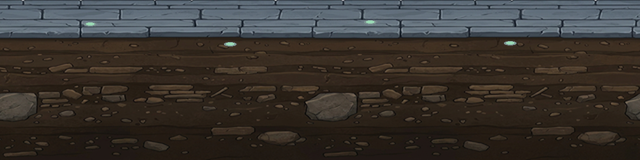
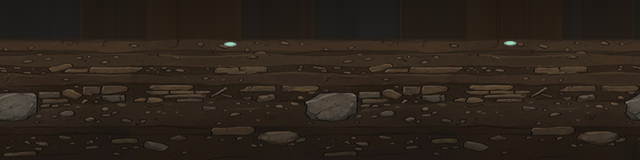
地面不再镂空：修好 10 张地面贴图顶部（beach 顶部 29 行透明、fortress 顶部 38 行是灰蓝天色），补成土并向上压暗出地平线暗边

Changed region(s): [[0.0, 0.0, 1.0, 0.25]]

diff --git a/tools/fix_ground_top.py b/tools/fix_ground_top.py
@@ -1,0 +1,103 @@
+# -*- coding: utf-8 -*-
+"""把地面贴图顶部「不是土」的那一条补成土。
+
+地面贴图是横截面风格：贴着地平线往下铺，屏幕上真正看得见的就是**贴图最上面那一小条**
+（岸带 26px 左右）。原来两张 beach 贴图最上面 30 行 alpha=0（镂空），fortress 贴图最上面
+40 行是偏蓝的「天/水」色 —— 铺上去就是一条空洞/一条灰蓝，看着像地面被掏了个口子。
+
+做法：找到第一条「实心土」的行 r0，把 r0 的颜色往上延伸成 r0 行，并向上轻微压暗，
+让地平线处有一条自然的暗边。1x / @2x 各自处理，尺寸不变（不破坏 @2x 严格 2 倍的关系）。
+
+用法： python tools/fix_ground_top.py [--check]
+"""
+import glob
+import io
+import os
+import sys
+
+from PIL import Image
+
+ROOT = os.path.dirname(os.path.dirname(os.path.abspath(__file__)))
+BG = os.path.join(ROOT, 'assets', 'bg')
+
+
+def luma(p):
+    return (p[0] * 299 + p[1] * 587 + p[2] * 114) // 1000
+
+
+def is_dirt_row(pts):
+    """一行是不是「土」：整体不透明、不是偏蓝的天/水色、亮度不过高。"""
+    a = sum(p[3] for p in pts) / len(pts)
+    if a < 250:
+        return False
+    r = sum(p[0] for p in pts) / len(pts)
+    b = sum(p[2] for p in pts) / len(pts)
+    l = sum(luma(p) for p in pts) / len(pts)
+    if b > r + 4:      # 偏蓝 → 天/水
+        return False
+    if l > 185:        # 太亮 → 雪/天空
+        return False
+    return True
+
+
+def row_of(px, w, y):
+    step = max(1, w // 32)
+    return [px[x, y] for x in range(0, w, step)]
+
+
+def find_ground_start(im):
+    w, h = im.size
+    px = im.load()
+    for y in range(0, min(h, int(h * 0.5))):
+        if is_dirt_row(row_of(px, w, y)) and (
+            y + 1 >= h or is_dirt_row(row_of(px, w, y + 1))
+        ):
+            return y
+    return 0
+
+
+def repair(path, apply=True):
+    im = Image.open(path).convert('RGBA')
+    w, h = im.size
+    px = im.load()
+    r0 = find_ground_start(im)
+    if r0 <= 0:
+        return (path, im.size, 0, 'OK 本来就是土，没动')
+    if not apply:
+        return (path, im.size, r0, '需补 %d 行' % r0)
+    src = [px[x, r0] for x in range(w)]
+    for y in range(r0 - 1, -1, -1):
+        # 越靠上越暗一点点：地平线处形成一条自然的暗边，不会是一块死板的平色
+        k = 1.0 - 0.16 * (1.0 - y / float(r0))
+        for x in range(w):
+            p = src[x]
+            px[x, y] = (
+                max(0, min(255, int(p[0] * k))),
+                max(0, min(255, int(p[1] * k))),
+                max(0, min(255, int(p[2] * k))),
+                255,
+            )
+    im.save(path)
+    return (path, im.size, r0, '已补 %d 行' % r0)
+
+
+def main():
+    check = '--check' in sys.argv
+    files = sorted(glob.glob(os.path.join(BG, '*ground*.png')))
+    out = io.open(os.path.join(ROOT, 'tools', '_ground_top.txt'), 'w', encoding='utf-8')
+    fixed = 0
+    for f in files:
+        rel = os.path.relpath(f, ROOT).replace('\\', '/')
+        path, size, r0, msg = repair(f, apply=not check)
+        line = '%-46s %4dx%-4d 顶部非土 %3d 行  %s' % (rel, size[0], size[1], r0, msg)
+        print(line)
+        out.write(line + '\n')
+        if r0 > 0 and not check:
+            fixed += 1
+    out.close()
+    print('共 %d 张，%s %d 张' % (len(files), '需要修' if check else '已修', fixed if not check else sum(
+        1 for f in files if find_ground_start(Image.open(f).convert('RGBA')) > 0)))
+
+
+if __name__ == '__main__':
+    main()
